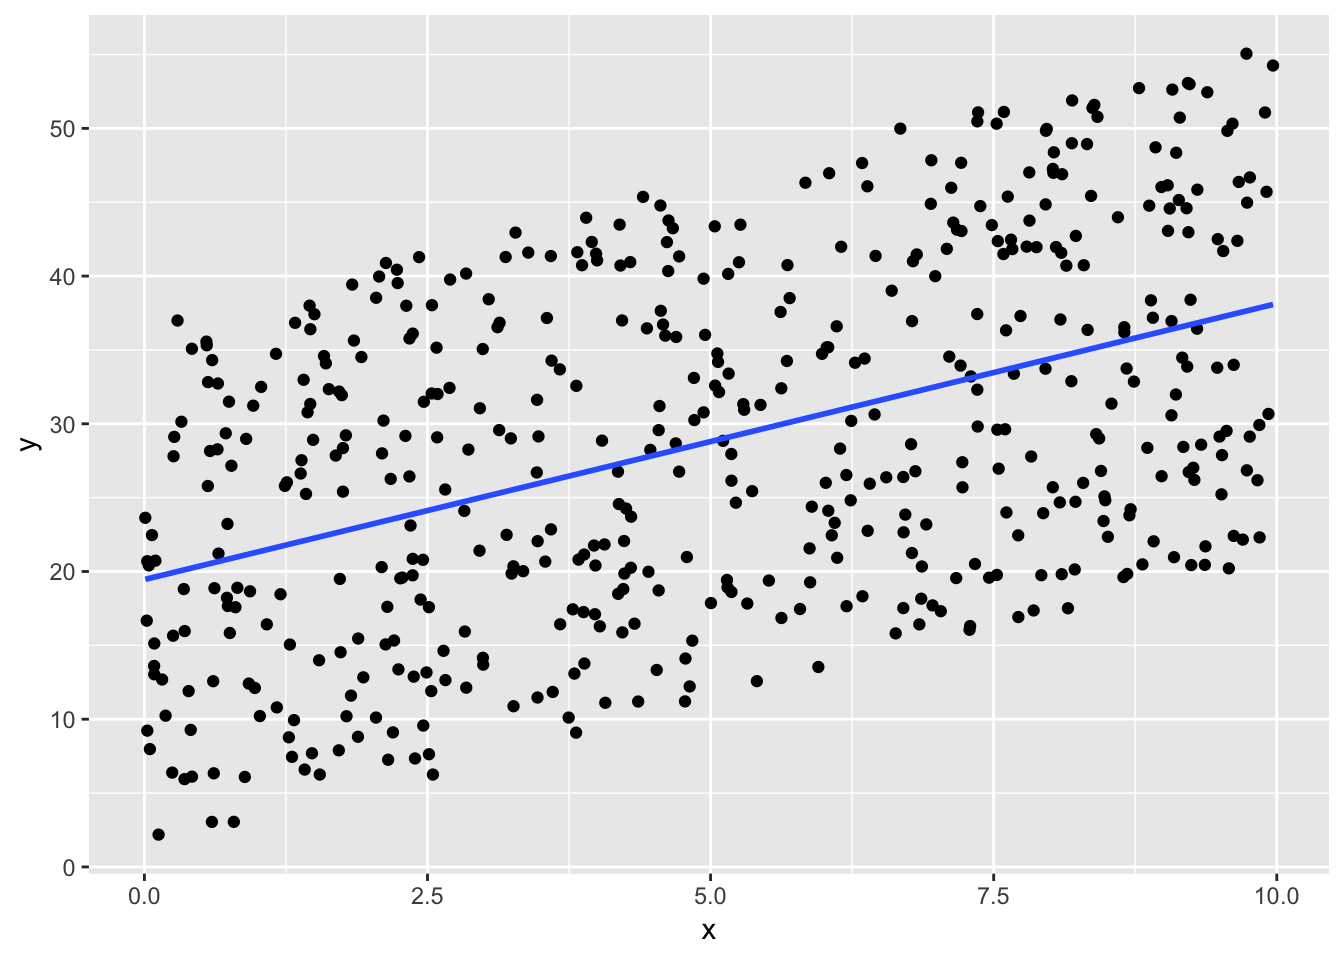
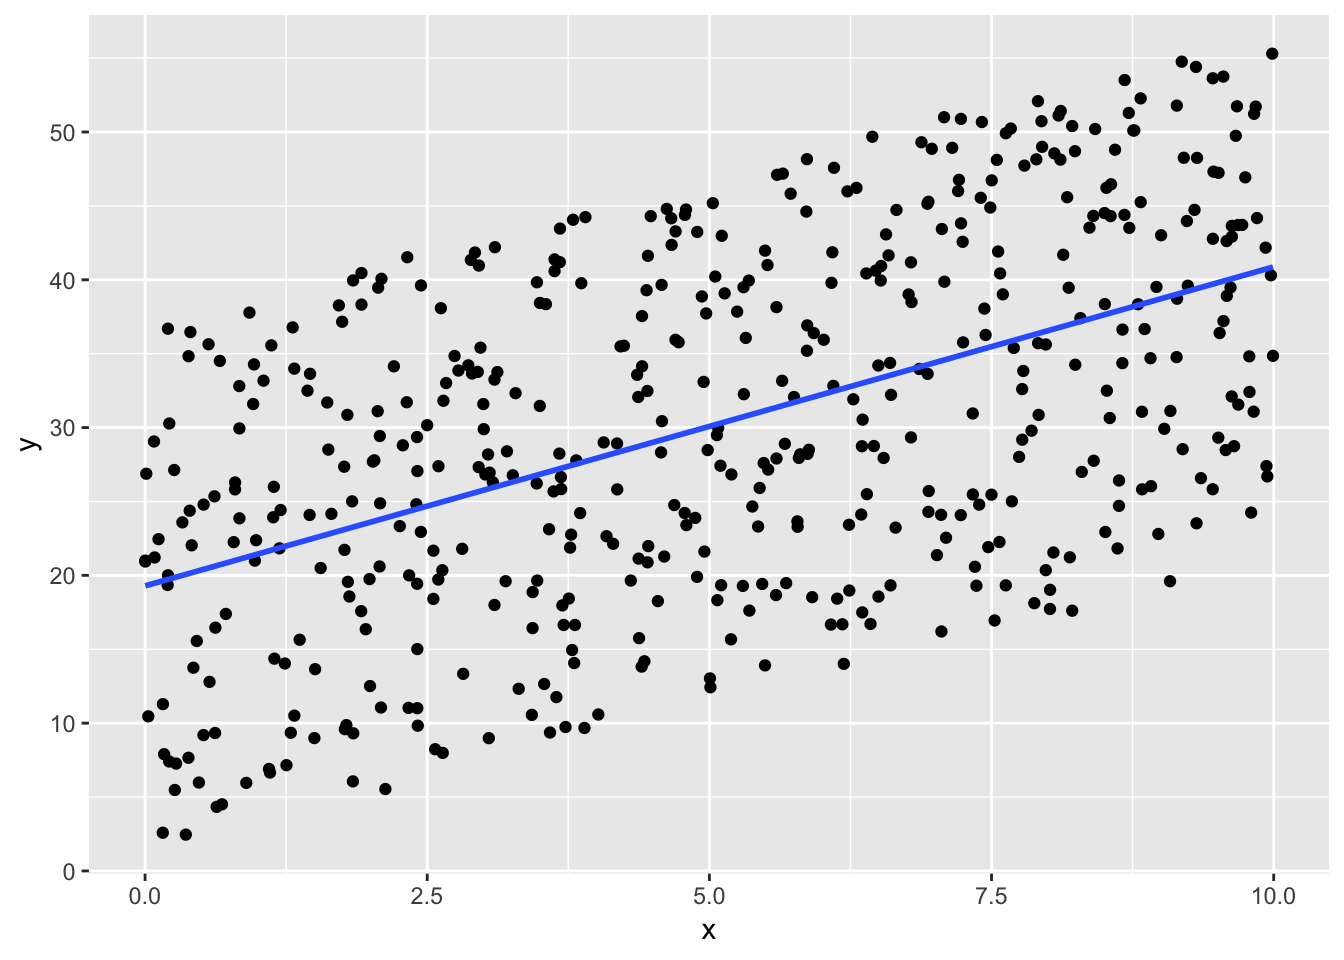
updated output file

diff --git a/docs/the-simple-regression-model.html b/docs/the-simple-regression-model.html
@@ -799,14 +799,14 @@ by OLS and report the results in the usual way, including the sample size and R-
 <li>Start by generating 500 observations xi – the explanatory variable – from the uniform distribution with range [0,10]. (Most statistical packages have a command for the Uniform[0,1] distribution; just multiply those observations by 10.) What are the sample mean and sample standard deviation of the xi?</li>
 </ol>
 <p>The expected mean is about 5.</p>
-<pre><code>## [1] 4.990447</code></pre>
-<pre><code>## [1] 2.97186</code></pre>
+<pre><code>## [1] 5.087806</code></pre>
+<pre><code>## [1] 2.906681</code></pre>
 <ol start="2" style="list-style-type: lower-roman">
 <li>Randomly generate 500 errors, ui, from the Normal[0,36] distribution. (If you generate a Normal[0,1], as is commonly available, simply multiply the outcomes by six.) Is the sample average of the ui exactly zero? Why or why not? What is the sample standard deviation of the ui?</li>
 </ol>
 <p>The expected mean is about 18.</p>
-<pre><code>## [1] 17.79883</code></pre>
-<pre><code>## [1] 10.55366</code></pre>
+<pre><code>## [1] 19.09546</code></pre>
+<pre><code>## [1] 10.29605</code></pre>
 <ol start="3" style="list-style-type: lower-roman">
 <li><p>Now generate the yi as <span class="math display">\[y_i = 1 + 2x_i + u_i = \widehat{\beta}_0 + \beta x_i + ui\]</span>;
 that is, the population intercept is one and the population slope is two. Use the data to run the regression of yi on xi. What are your estimates of the intercept and slope? Are they equal to the population values in the above equation? Explain.</p></li>
@@ -820,18 +820,18 @@ that is, the population intercept is one and the population slope is two. Use th
 ## 
 ## Residuals:
 ##      Min       1Q   Median       3Q      Max 
-## -17.9621  -9.3821  -0.4003   9.1537  18.0570 
+## -19.4113  -8.8657   0.5281   8.7555  17.2243 
 ## 
 ## Coefficients:
 ##             Estimate Std. Error t value Pr(&gt;|t|)    
-## (Intercept)  19.4545     0.9234   21.07   &lt;2e-16 ***
-## x             1.8686     0.1590   11.75   &lt;2e-16 ***
+## (Intercept)  19.2886     0.9289   20.76   &lt;2e-16 ***
+## x             2.1586     0.1586   13.61   &lt;2e-16 ***
 ## ---
 ## Signif. codes:  0 &#39;***&#39; 0.001 &#39;**&#39; 0.01 &#39;*&#39; 0.05 &#39;.&#39; 0.1 &#39; &#39; 1
 ## 
-## Residual standard error: 10.56 on 498 degrees of freedom
-## Multiple R-squared:  0.2171, Adjusted R-squared:  0.2155 
-## F-statistic: 138.1 on 1 and 498 DF,  p-value: &lt; 2.2e-16</code></pre>
+## Residual standard error: 10.3 on 498 degrees of freedom
+## Multiple R-squared:  0.2712, Adjusted R-squared:  0.2697 
+## F-statistic: 185.3 on 1 and 498 DF,  p-value: &lt; 2.2e-16</code></pre>
 <p><img src="chapter02_files/figure-html/unnamed-chunk-43-1.png" width="672" /></p>
 <pre><code>## 
 ## Call:
@@ -839,18 +839,18 @@ that is, the population intercept is one and the population slope is two. Use th
 ## 
 ## Residuals:
 ##      Min       1Q   Median       3Q      Max 
-## -17.9621  -9.3821  -0.4003   9.1537  18.0570 
+## -19.4113  -8.8657   0.5281   8.7555  17.2243 
 ## 
 ## Coefficients:
 ##             Estimate Std. Error t value Pr(&gt;|t|)    
-## (Intercept)  18.4545     0.9234  19.985  &lt; 2e-16 ***
-## x             0.8686     0.1590   5.462 7.44e-08 ***
+## (Intercept)  18.2886     0.9289  19.688  &lt; 2e-16 ***
+## x             1.1586     0.1586   7.306  1.1e-12 ***
 ## ---
 ## Signif. codes:  0 &#39;***&#39; 0.001 &#39;**&#39; 0.01 &#39;*&#39; 0.05 &#39;.&#39; 0.1 &#39; &#39; 1
 ## 
-## Residual standard error: 10.56 on 498 degrees of freedom
-## Multiple R-squared:  0.05652,    Adjusted R-squared:  0.05463 
-## F-statistic: 29.84 on 1 and 498 DF,  p-value: 7.439e-08</code></pre>
+## Residual standard error: 10.3 on 498 degrees of freedom
+## Multiple R-squared:  0.09682,    Adjusted R-squared:  0.095 
+## F-statistic: 53.38 on 1 and 498 DF,  p-value: 1.098e-12</code></pre>
 <p><img src="chapter02_files/figure-html/unnamed-chunk-43-2.png" width="672" /></p>
 </div>
 <div id="c9-countymurders" class="section level2">

diff --git a/docs/chapter02.md b/docs/chapter02.md
@@ -1,14 +1,3 @@
----
-title: "Chapter 2: The simple regression Model"
-author: "Marjorie Blanco"
-date: "12/19/2018"
-output:
-  html_document:
-    toc: true
-    toc_float: true
-    number_sections: true
----
-
 
 
 
@@ -683,11 +672,11 @@ The expected mean is about 5.
 
 
 ```
-## [1] 4.990447
+## [1] 5.087806
 ```
 
 ```
-## [1] 2.97186
+## [1] 2.906681
 ```
 
 (ii) Randomly generate 500 errors, ui, from the Normal[0,36] distribution. (If you generate a Normal[0,1], as is commonly available, simply multiply the outcomes by six.) Is the sample average of the ui exactly zero? Why or why not? What is the sample standard deviation of the ui?
@@ -696,11 +685,11 @@ The expected mean is about 18.
 
 
 ```
-## [1] 17.79883
+## [1] 19.09546
 ```
 
 ```
-## [1] 10.55366
+## [1] 10.29605
 ```
 
 
@@ -723,18 +712,18 @@ that is, the population intercept is one and the population slope is two. Use th
 ## 
 ## Residuals:
 ##      Min       1Q   Median       3Q      Max 
-## -17.9621  -9.3821  -0.4003   9.1537  18.0570 
+## -19.4113  -8.8657   0.5281   8.7555  17.2243 
 ## 
 ## Coefficients:
 ##             Estimate Std. Error t value Pr(>|t|)    
-## (Intercept)  19.4545     0.9234   21.07   <2e-16 ***
-## x             1.8686     0.1590   11.75   <2e-16 ***
+## (Intercept)  19.2886     0.9289   20.76   <2e-16 ***
+## x             2.1586     0.1586   13.61   <2e-16 ***
 ## ---
 ## Signif. codes:  0 '***' 0.001 '**' 0.01 '*' 0.05 '.' 0.1 ' ' 1
 ## 
-## Residual standard error: 10.56 on 498 degrees of freedom
-## Multiple R-squared:  0.2171,	Adjusted R-squared:  0.2155 
-## F-statistic: 138.1 on 1 and 498 DF,  p-value: < 2.2e-16
+## Residual standard error: 10.3 on 498 degrees of freedom
+## Multiple R-squared:  0.2712,	Adjusted R-squared:  0.2697 
+## F-statistic: 185.3 on 1 and 498 DF,  p-value: < 2.2e-16
 ```
 
 <img src="chapter02_files/figure-html/unnamed-chunk-43-1.png" width="672" />
@@ -746,18 +735,18 @@ that is, the population intercept is one and the population slope is two. Use th
 ## 
 ## Residuals:
 ##      Min       1Q   Median       3Q      Max 
-## -17.9621  -9.3821  -0.4003   9.1537  18.0570 
+## -19.4113  -8.8657   0.5281   8.7555  17.2243 
 ## 
 ## Coefficients:
 ##             Estimate Std. Error t value Pr(>|t|)    
-## (Intercept)  18.4545     0.9234  19.985  < 2e-16 ***
-## x             0.8686     0.1590   5.462 7.44e-08 ***
+## (Intercept)  18.2886     0.9289  19.688  < 2e-16 ***
+## x             1.1586     0.1586   7.306  1.1e-12 ***
 ## ---
 ## Signif. codes:  0 '***' 0.001 '**' 0.01 '*' 0.05 '.' 0.1 ' ' 1
 ## 
-## Residual standard error: 10.56 on 498 degrees of freedom
-## Multiple R-squared:  0.05652,	Adjusted R-squared:  0.05463 
-## F-statistic: 29.84 on 1 and 498 DF,  p-value: 7.439e-08
+## Residual standard error: 10.3 on 498 degrees of freedom
+## Multiple R-squared:  0.09682,	Adjusted R-squared:  0.095 
+## F-statistic: 53.38 on 1 and 498 DF,  p-value: 1.098e-12
 ```
 
 <img src="chapter02_files/figure-html/unnamed-chunk-43-2.png" width="672" />

diff --git a/docs/chapter07.md b/docs/chapter07.md
@@ -1,10 +1,3 @@
----
-title: 'Multiple Regression Analysis with Qualitative Information: Binary (or Dummy) Variables'
-author: "Marjorie Blanco"
-date: "12/23/2018"
-output: html_document
----
-
 
 
 # Multiple Regression Analysis with Qualitative Information: Binary (or Dummy) Variables

diff --git a/docs/chapter03.md b/docs/chapter03.md
@@ -1,14 +1,3 @@
----
-title: "Chapter 3: Multiple regression Analysis: estimation"
-author: "Marjorie Blanco"
-date: "12/19/2018"
-output:
-  html_document:
-    toc: true
-    toc_float: true
-    number_sections: true
----
-
 
 
 # Multiple regression Analysis: estimation

diff --git a/docs/chapter06.md b/docs/chapter06.md
@@ -1,10 +1,3 @@
----
-title: "Chapter 6: Multiple Regression Analysis: Further Issues"
-author: "Marjorie Blanco"
-date: "12/22/2018"
-output: html_document
----
-
 
 
 # Multiple Regression Analysis: Further Issues

diff --git a/docs/chapter04.md b/docs/chapter04.md
@@ -1,10 +1,3 @@
----
-title: "Chapter 4: Multiple regression Analysis: inference"
-author: "Marjorie Blanco"
-date: "12/22/2018"
-output: html_document
----
-
 
 
 # Multiple regression Analysis: inference

diff --git a/docs/chapter05.md b/docs/chapter05.md
@@ -1,9 +1,3 @@
----
-title: "Chapter 5: Multiple regression analysis: OLS asymptotics"
-author: "Marjorie Blanco"
-output: html_document
----
-
 
 
 # Multiple regression analysis: OLS asymptotics

diff --git a/docs/chapter13.md b/docs/chapter13.md
@@ -1,10 +1,3 @@
----
-title: "Chapter 13"
-author: "Marjorie Blanco"
-date: "12/20/2018"
-output: html_document
----
-
 
 
 # Pooling Cross Sections Across Time: Simple Panel Data Method

diff --git a/docs/chapter10.md b/docs/chapter10.md
@@ -1,10 +1,3 @@
----
-title: "Chapter 10"
-author: "Marjorie Blanco"
-date: "12/19/2018"
-output: html_document
----
-
 
 
 # Basic Regression Analysis with Time Series Data
